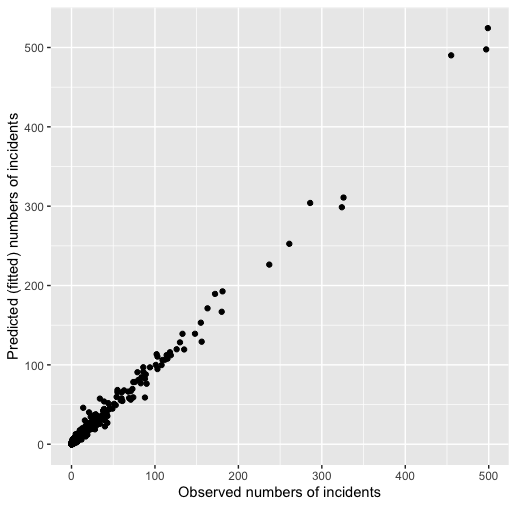
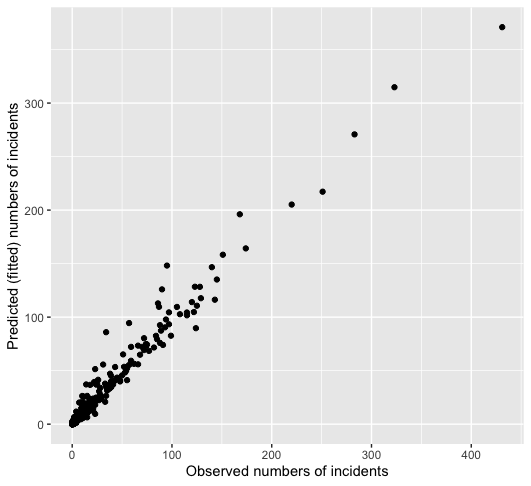
Cleaning up gun_crime markdown example

diff --git a/RMarkdowns/ppm_mgcv.md b/RMarkdowns/ppm_mgcv.md
@@ -24,20 +24,11 @@ quick_map(gun_crime_sf, 'num_killed')
 
 ![](gun_crime_mgcv_files/figure-gfm/map_crimes-1.png)<!-- -->
 
-For simplicity, let's just work with the 48 contiguous states
-```r
-# Get USA data
-states <- raster::getData("GADM", country="USA", level=1)
-states_49 <- subset(states, !(NAME_1 %in% c("Alaska", "Hawaii")))
-USA_pop_2015 <- crop(USA_pop_2015, states_49)
-```
-
 Now, to coin a phrase from Nick Golding's ppmify package, let's ppmify our data using `DiSARM::space_time_ppmify` to get it ready for modeling. 
 ```r
 ppm_df <- space_time_ppmify(points = gun_crime_sf,
                 exposure = USA_pop_2015,
-                date_start_end=c("2015-01-01", "2015-12-31"),
-                num_periods=1,
+                date_start_end=c("2015-01-01", "2015-12-31")
                 prediction_stack=TRUE)
 ```
 
@@ -62,7 +53,7 @@ cellStats(predicted_num, sum)
 nrow(gun_crime_sf)
 ```
 
-    ## [1] 11601.94
+    ## [1] 11434.85
     ## [1] 11550
 
 Map predicted rate
@@ -91,9 +82,9 @@ scale_x_continuous(name="Observed numbers of incidents") +
 # And map
 case_num_pal <- colorBin(topo.colors(5), c(0,600), bins = c(0, 1, 10, 100, 600))
 par(mfrow=c(2,1))
-plot(hexbin_stats, col = case_num_pal(hexbin_stats$observed), main = "Observed counts")
+plot(hexbin_stats, col = case_num_pal(hexbin_stats$observed), main = "Observed counts", asp=1)
 legend("bottomright", inset=0, title="Number of incidents",
    c("0-1","1-10","10-100", "100-600"), fill=case_num_pal(c(0.5, 1.5, 10.5, 100.5)), horiz=FALSE, cex=0.8)
-plot(hexbin_stats, col = case_num_pal(hexbin_stats$stat), main = "Fitted counts")
+plot(hexbin_stats, col = case_num_pal(hexbin_stats$stat), main = "Fitted counts", asp=1)
 ```
 ![](gun_crime_mgcv_files/figure-gfm/observed_fitted_hexbin.png)<!-- -->
